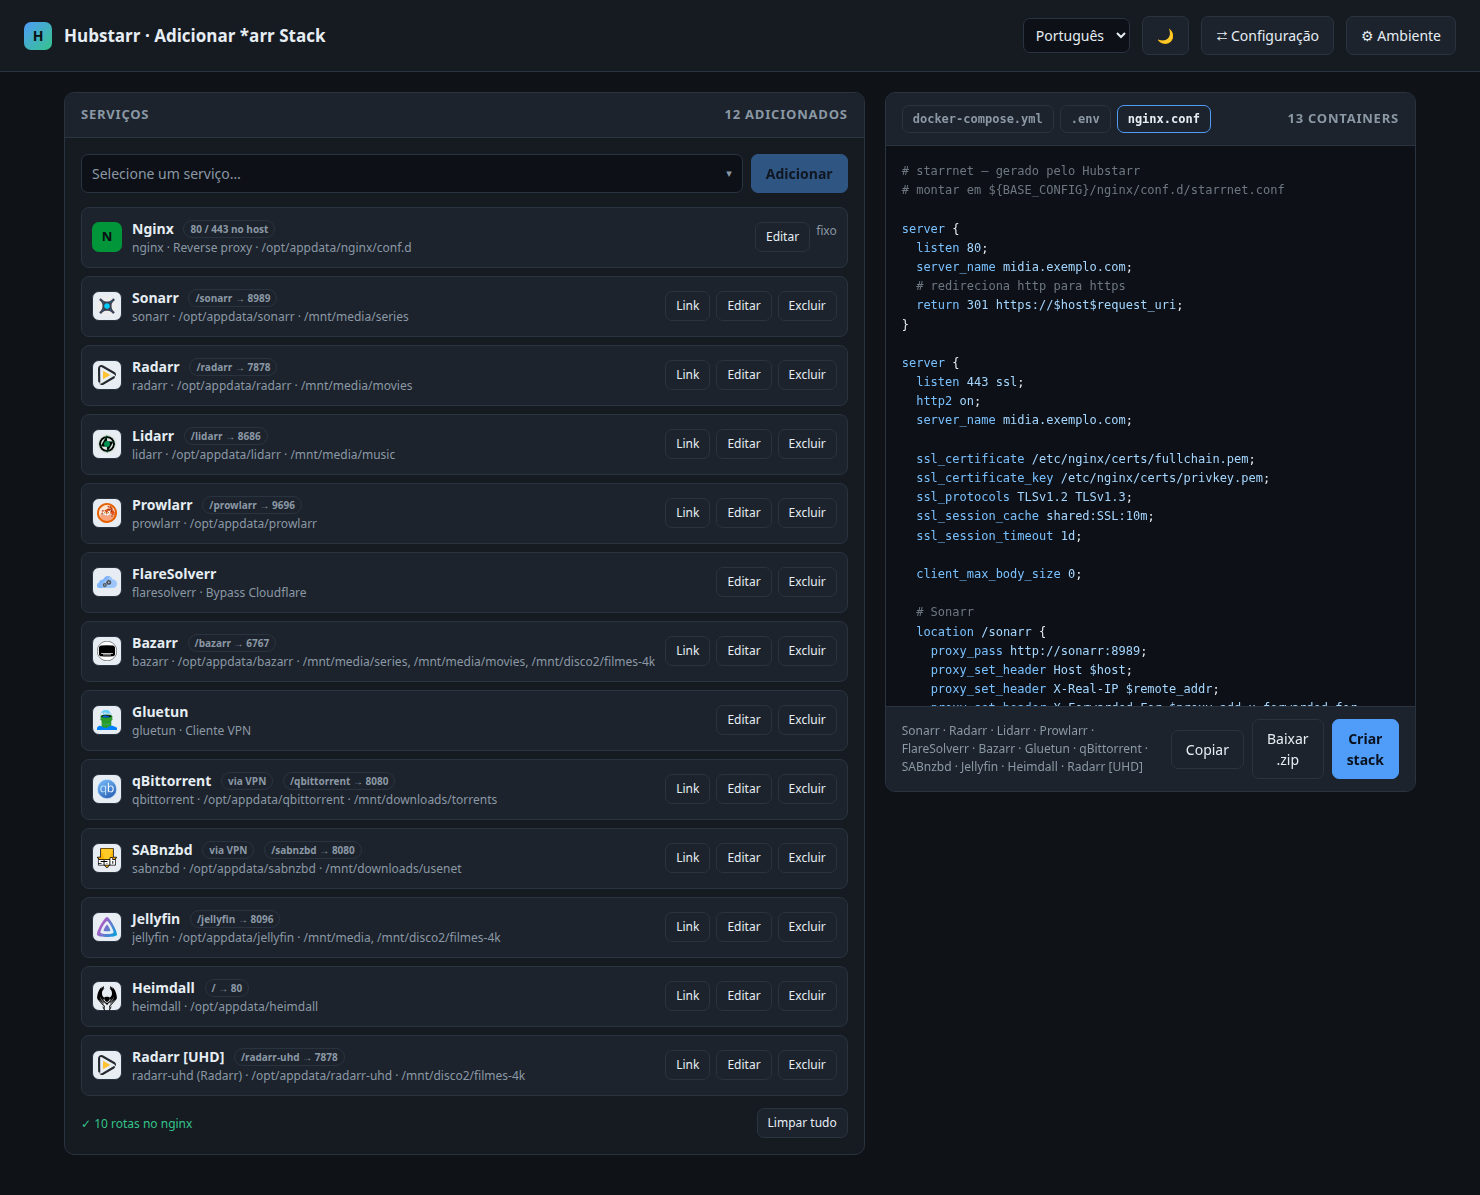
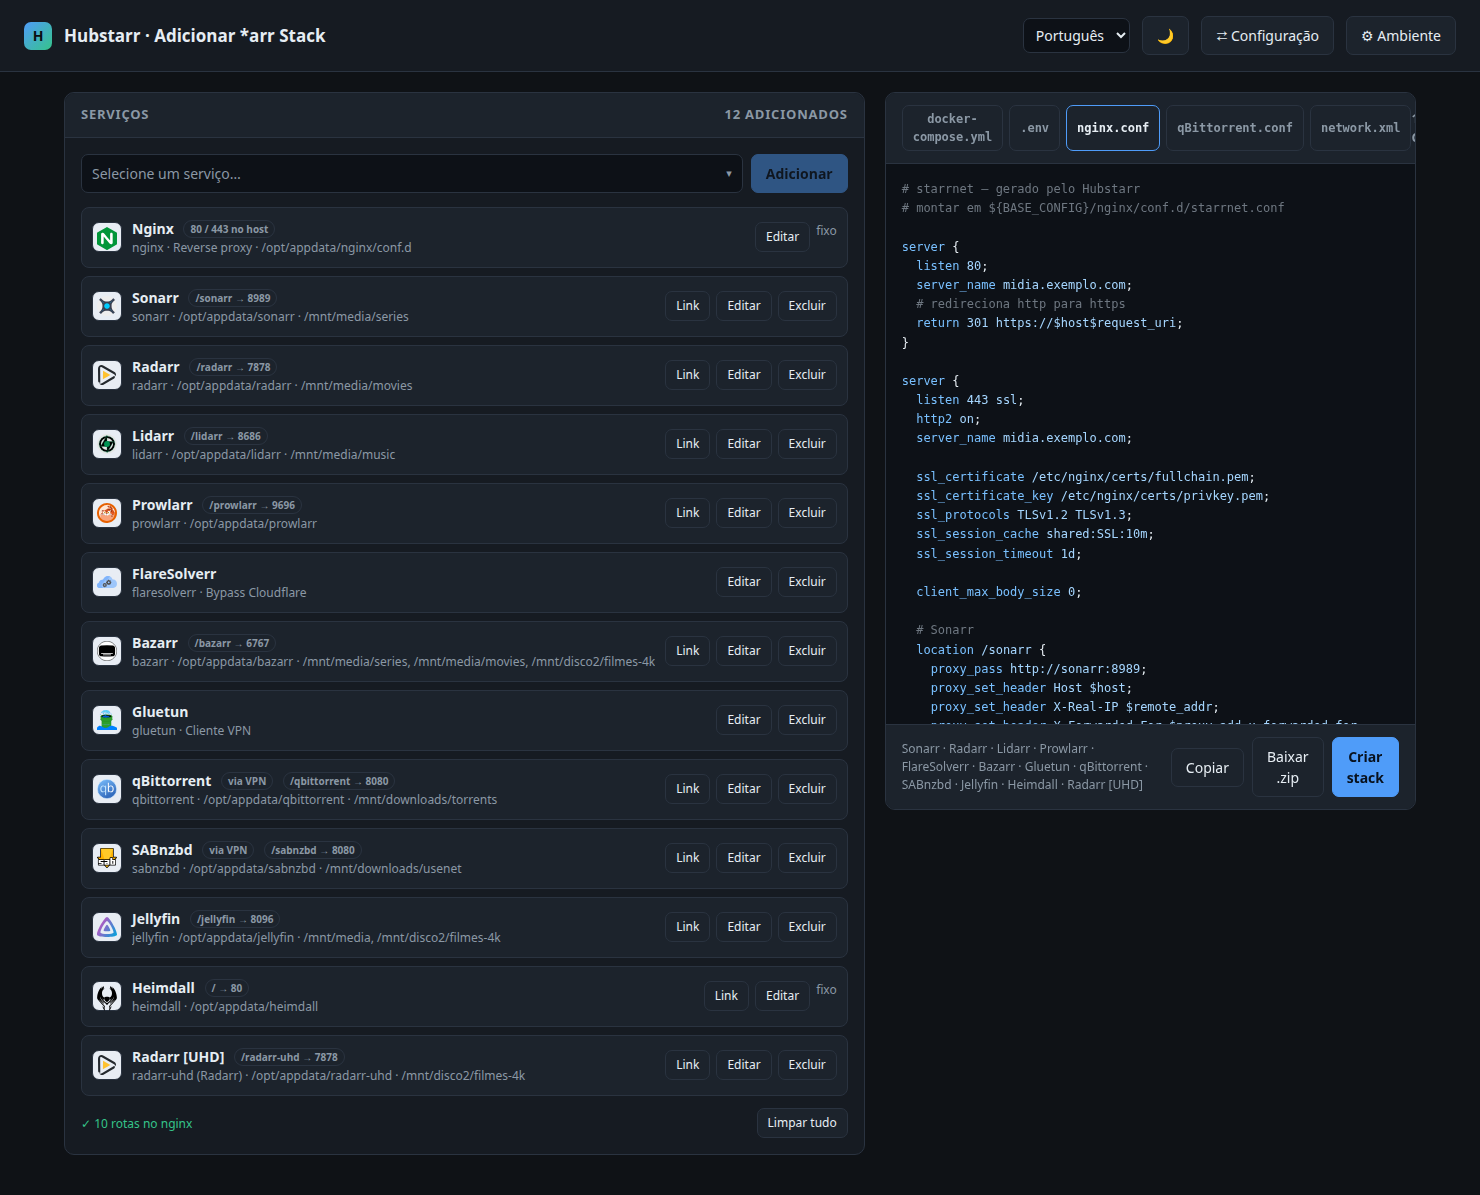
Põe o logotipo do nginx na lista
O da linha fixa era a inicial no quadrado verde. Ícone do Icon 54, pelo
IconScout, creditado na seção de licença dos READMEs — os outros vêm do
dashboardicons.

Claude-Session: https://claude.ai/code/session_01S68gGnf3sUbt8utPs9aASw

diff --git a/hubstarr.html b/hubstarr.html
@@ -1321,6 +1321,8 @@ const URLBASE_ENV = {sonarr:'SONARR__SERVER__URLBASE', radarr:'RADARR__SERVER__U
 /* logotipos SVG do dashboardicons.com, embutidos como data URI (funciona offline).
    Se algum id não tiver ícone, cai para a inicial sobre a cor do serviço. */
 const ICONS = {
+  // nginx: ícone do Icon 54 (iconscout.com), creditado no README
[4 lines of base64/hex data omitted]

diff --git a/README.es.md b/README.es.md
@@ -219,5 +219,7 @@ tiene que ir con el código y bajo la misma licencia. Sin garantía — mira las
 secciones 15 y 16 del texto.
 
 Los logotipos de los servicios son de sus respectivos proyectos y vienen de
-[dashboardicons.com](https://dashboardicons.com); la GPL cubre Hubstarr, no a
-ellos.
+[dashboardicons.com](https://dashboardicons.com); el de nginx es
+[Nginx](https://iconscout.com/icons/nginx), de
+[Icon 54](https://iconscout.com/contributors/icon-54), en IconScout. La GPL
+cubre Hubstarr, no a ellos.

diff --git a/README.en.md b/README.en.md
@@ -216,5 +216,7 @@ with the source and under the same license. No warranty — see sections 15 and
 16 of the text.
 
 The service logos belong to their own projects and come from
-[dashboardicons.com](https://dashboardicons.com); the GPL covers Hubstarr, not
-them.
+[dashboardicons.com](https://dashboardicons.com); the nginx one is
+[Nginx](https://iconscout.com/icons/nginx) by
+[Icon 54](https://iconscout.com/contributors/icon-54), on IconScout. The GPL
+covers Hubstarr, not them.

diff --git a/README.md b/README.md
@@ -215,5 +215,7 @@ com o código e sob a mesma licença. Sem garantia — veja as seções 15 e 16 
 texto.
 
 Os logotipos dos serviços são de seus respectivos projetos e vêm do
-[dashboardicons.com](https://dashboardicons.com); a GPL cobre o Hubstarr, não
-eles.
+[dashboardicons.com](https://dashboardicons.com); o do nginx é
+[Nginx](https://iconscout.com/icons/nginx), de
+[Icon 54](https://iconscout.com/contributors/icon-54), no IconScout. A GPL
+cobre o Hubstarr, não eles.
